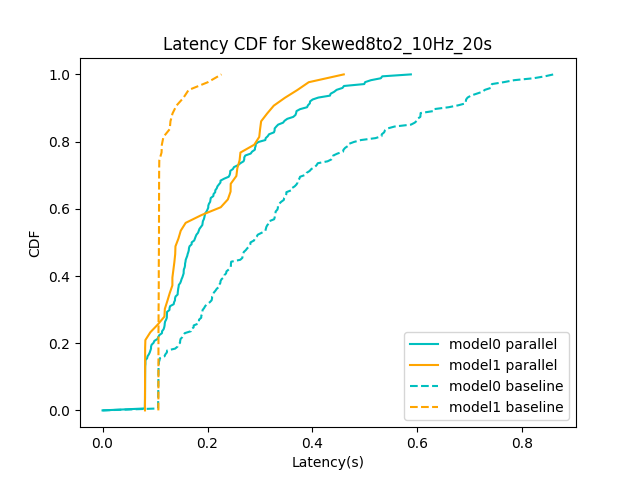
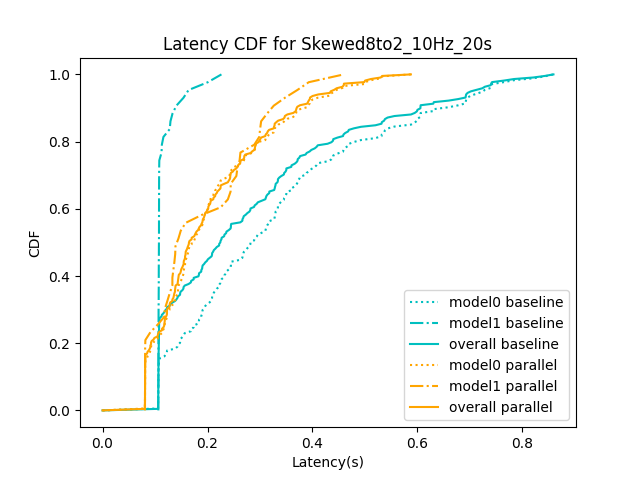
change the figure

diff --git a/benchmark/alpa/profile_latencies.py b/benchmark/alpa/profile_latencies.py
@@ -5,9 +5,9 @@ from generate_workload import PossoinWorkLoad
 
 #workload_filename = "Even_5Hz_20s"
 #workload_filename = "Even_10Hz_20s"
-#workload_filename = "Skewed8to2_5Hz_20s"
+workload_filename = "Skewed8to2_5Hz_20s"
 #workload_filename = "Skewed8to2_10Hz_20s"
-workload_filename = "Skewed8to2_20Hz_20s"
+#workload_filename = "Skewed8to2_20Hz_20s"
 
 def load_data():
     parallel_latency_filename = workload_filename + "_latencies"
@@ -23,19 +23,23 @@ def plot_cdf(latencies, is_baseline):
     model0_latencies = [latencies[i] for i, model_id in enumerate(workload.model_ids) if model_id == 0]
     model1_latencies = [latencies[i] for i, model_id in enumerate(workload.model_ids) if model_id == 1]
     # sort data
-    x1, x2 = np.sort(model0_latencies), np.sort(model1_latencies)
+    x1, x2, x = np.sort(model0_latencies), np.sort(model1_latencies), np.sort(latencies)
     # calculate CDF values
-    y1, y2 = 1. * np.arange(len(model0_latencies)) / (len(model0_latencies) - 1), 1. * np.arange(len(model1_latencies)) / (len(model1_latencies) - 1)
+    y1, y2, y = 1. * np.arange(len(model0_latencies)) / (len(model0_latencies) - 1), \
+                1. * np.arange(len(model1_latencies)) / (len(model1_latencies) - 1), \
+                1. * np.arange(len(latencies)) / (len(latencies) - 1),
     # plot CDF
     if is_baseline:
-        plt.plot(x1, y1, "--", color="c", label="model0 baseline")
-        plt.plot(x2, y2, "--", color="orange", label="model1 baseline")
+        plt.plot(x1, y1, ":", color="c", label="model0 baseline")
+        plt.plot(x2, y2, "-.", color="c", label="model1 baseline")
+        plt.plot(x, y, "-", color="c", label="overall baseline")
     else:
-        plt.plot(x1, y1, "-", color="c", label="model0 parallel")
-        plt.plot(x2, y2, "-", color="orange", label="model1 parallel")
+        plt.plot(x1, y1, ":", color="orange", label="model0 parallel")
+        plt.plot(x2, y2, "-.", color="orange", label="model1 parallel")
+        plt.plot(x, y, "-", color="orange", label="overall parallel")
     # print the statistics
+    print("---------------------------------------")
     if is_baseline:
-        print("---------------------------------------")
         print("Baseline latency statistics:")
     else:
         print("Parallel latency statistics:") 
@@ -48,8 +52,8 @@ def plot_cdf(latencies, is_baseline):
 
 workload, parallel_latencies, baseline_latencies = load_data()
 plt.figure()
-plot_cdf(parallel_latencies, False)
 plot_cdf(baseline_latencies, True)
+plot_cdf(parallel_latencies, False)
 plt.legend()
 plt.ylabel("CDF")
 plt.xlabel("Latency(s)")
